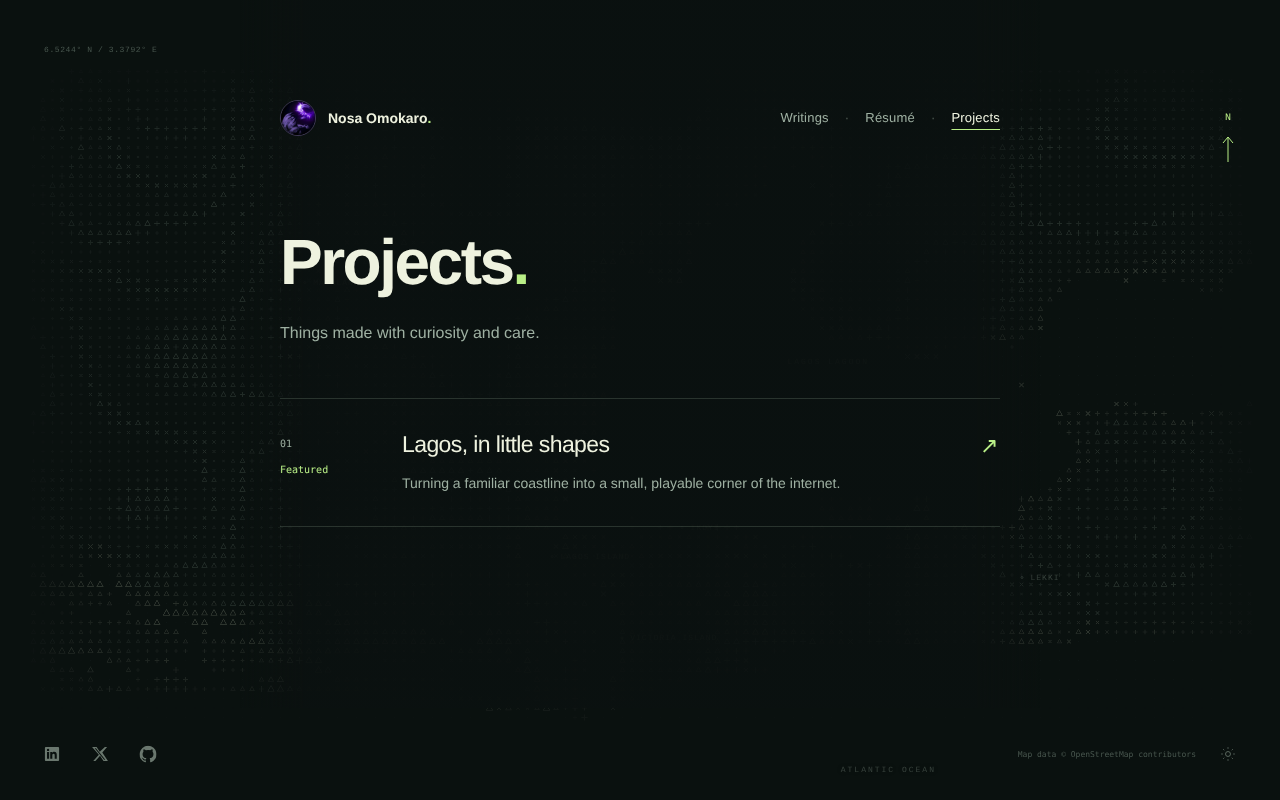
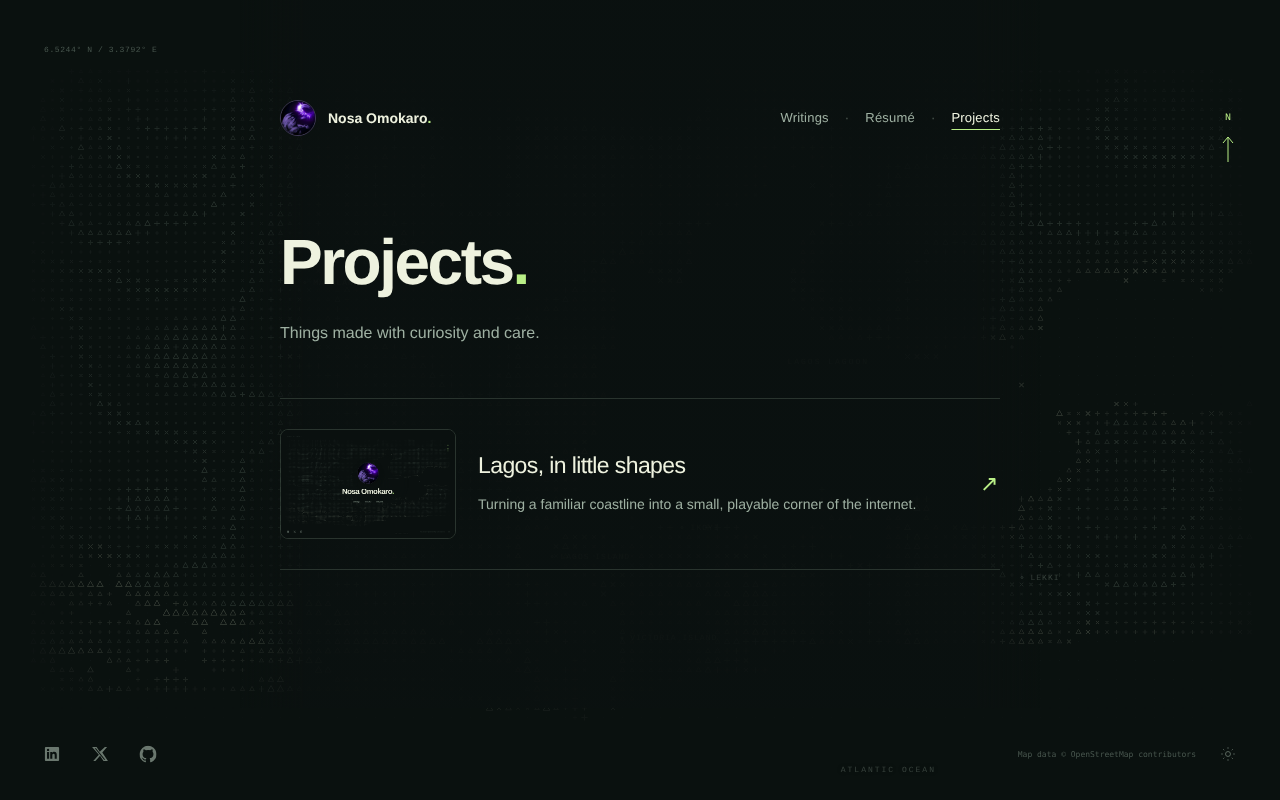
Replace project counters with Markdown-configured preview images

Changed region(s): [[0.2812, 0.5312, 0.7188, 0.6562], [0.2188, 0.5625, 0.25, 0.5938]]

diff --git a/src/styles/content.css b/src/styles/content.css
@@ -14,6 +14,9 @@
 .entry-list > li { border-top: 1px solid var(--line); }
 .entry-list > li:last-child { border-bottom: 1px solid var(--line); }
 .entry-link { display: grid; grid-template-columns: 100px 1fr 20px; gap: 22px; padding: 30px 0; text-decoration: none; color: inherit; }
+.project-entry { grid-template-columns: minmax(0, 1fr) 20px; align-items: center; }
+.project-entry.has-preview { grid-template-columns: 176px minmax(0, 1fr) 20px; }
+.project-preview { display: block; width: 100%; height: auto; aspect-ratio: 8 / 5; object-fit: cover; border: 1px solid var(--line); border-radius: 8px; }
 .entry-meta { display: flex; flex-direction: column; gap: 10px; padding-top: 6px; font: 10px/1.6 'SFMono-Regular', Consolas, monospace; color: var(--muted); }
 .entry-copy h2 { font-size: 23px; line-height: 1.3; letter-spacing: -.6px; margin: 0 0 12px; font-weight: 500; transition: color .2s; }
 .entry-copy p { margin: 0; font-size: 14px; line-height: 1.8; color: var(--muted); }
@@ -59,6 +62,8 @@
   .section-content h1 { letter-spacing: -1.5px; }
   .section-intro { margin-bottom: 36px; }
   .entry-link { grid-template-columns: 1fr 20px; gap: 16px; }
+  .project-entry.has-preview { grid-template-columns: minmax(0, 1fr) 20px; }
+  .project-preview { grid-column: 1 / -1; }
   .entry-meta { grid-column: 1 / -1; flex-direction: row; gap: 18px; }
   .entry-copy h2 { font-size: 21px; }
 }

diff --git a/src/content.config.ts b/src/content.config.ts
@@ -21,6 +21,10 @@ export const collections = {
     schema: z.object({
       ...common,
       featured: z.boolean().default(false),
+      preview: z.object({
+        src: z.string().min(1),
+        alt: z.string().min(1),
+      }).optional(),
       url: webUrl.optional(),
       repository: webUrl.optional(),
     }),

diff --git a/README.md b/README.md
@@ -69,13 +69,21 @@ copy, with local screenshots in `public/images/lagos/`. Replace or remove these
 samples when your real content is ready.
 There is a designed empty state when a collection has no published entries.
 
-Projects accept three additional optional frontmatter fields:
+Projects accept these additional optional frontmatter fields:
 
 ```yaml
 featured: true
+preview:
+  src: "/images/lagos/dark-desktop.png"
+  alt: "The Lagos portfolio homepage with its geometric map."
 url: "https://example.com"
 repository: "https://github.com/your-name/your-project"
 ```
+
+The preview image appears beside the project summary, or above it on mobile.
+Use an image under `public/` and its site path, with descriptive alt text. Images
+are displayed at an 8:5 aspect ratio. Without a preview, the summary uses the row;
+no number or placeholder is shown. `featured` controls sorting without a visible badge.
 
 Omit links you do not have. Writings are sorted newest first; featured projects
 appear first, then newest first. Invalid metadata fails the build with a file-specific

diff --git a/src/content/projects/lagos-portfolio.md b/src/content/projects/lagos-portfolio.md
@@ -3,6 +3,9 @@ title: "Lagos, in little shapes"
 description: "Turning a familiar coastline into a small, playable corner of the internet."
 date: 2026-10-17
 featured: true
+preview:
+  src: "/images/lagos/dark-desktop.png"
+  alt: "The Lagos portfolio homepage with a purple avatar over a geometric map."
 repository: "https://github.com/nosabecom/portfolio"
 ---
 *Sample case study for testing this layout. The screenshots show the actual portfolio; the copy is ready to replace.*
